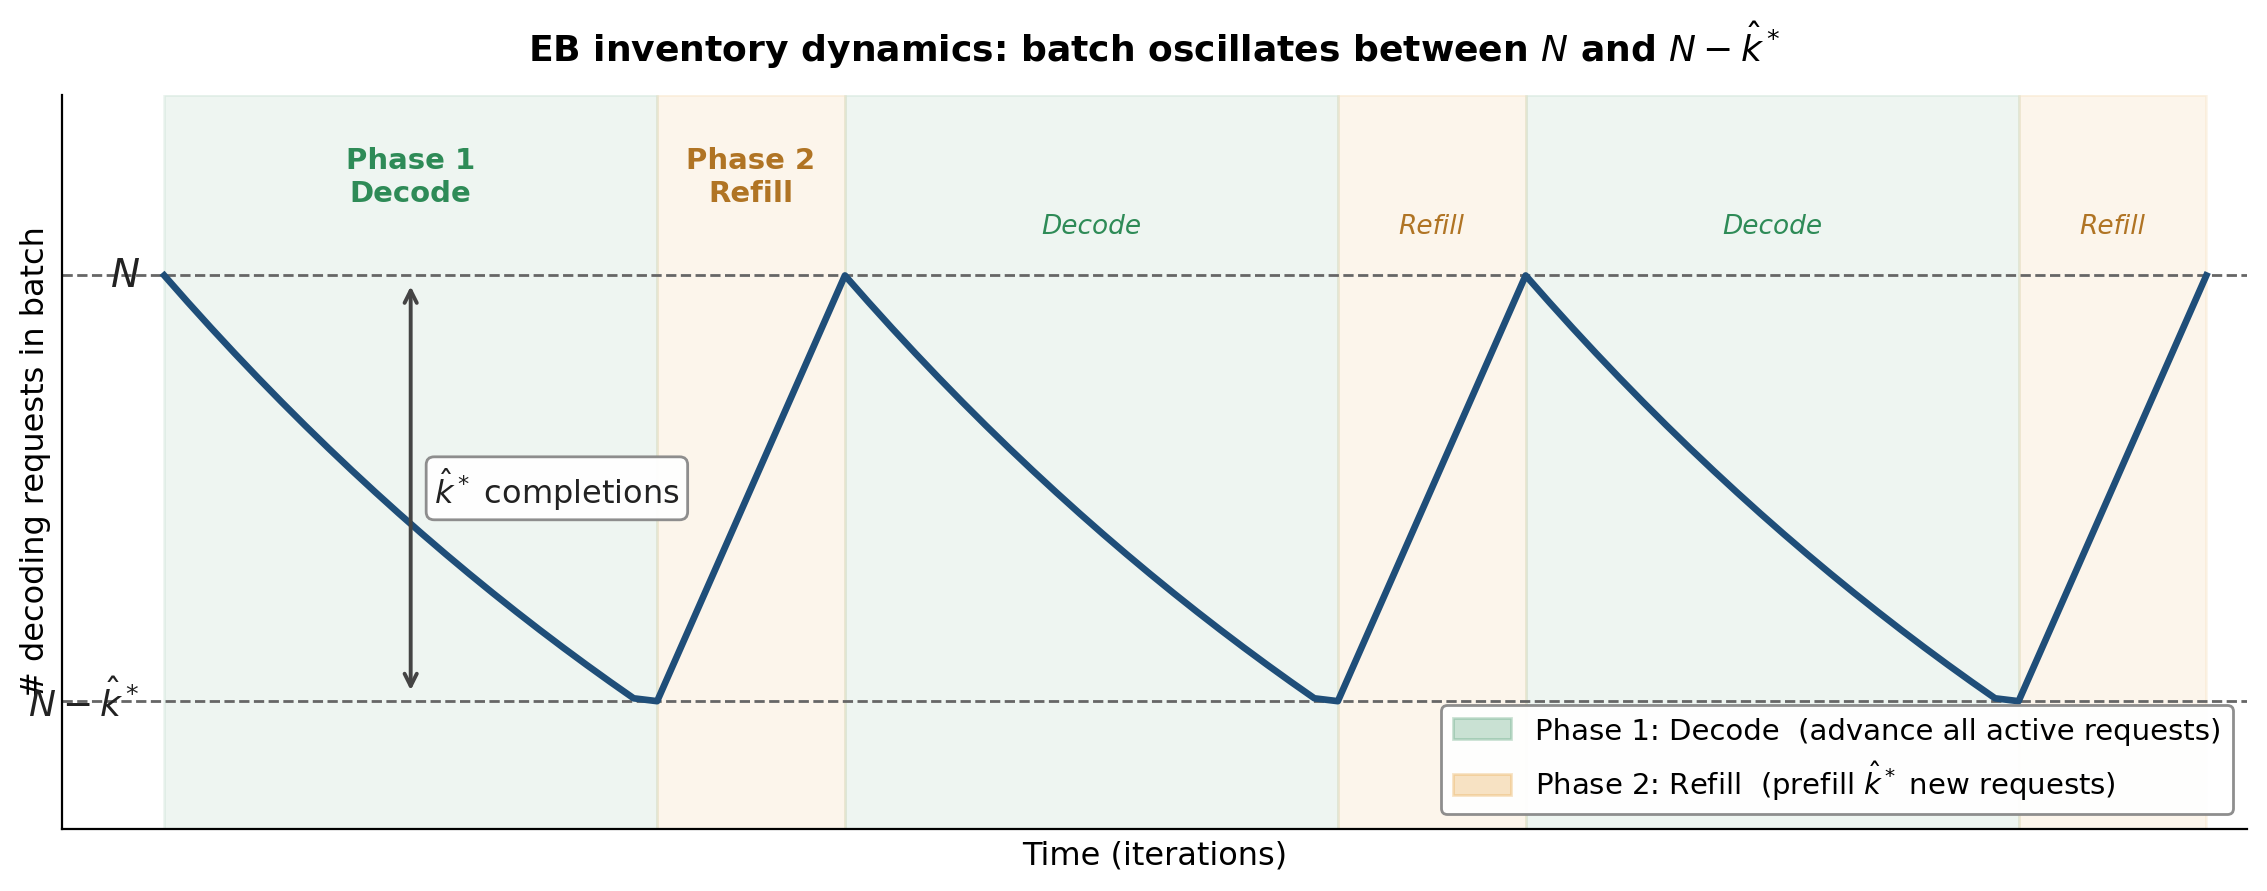
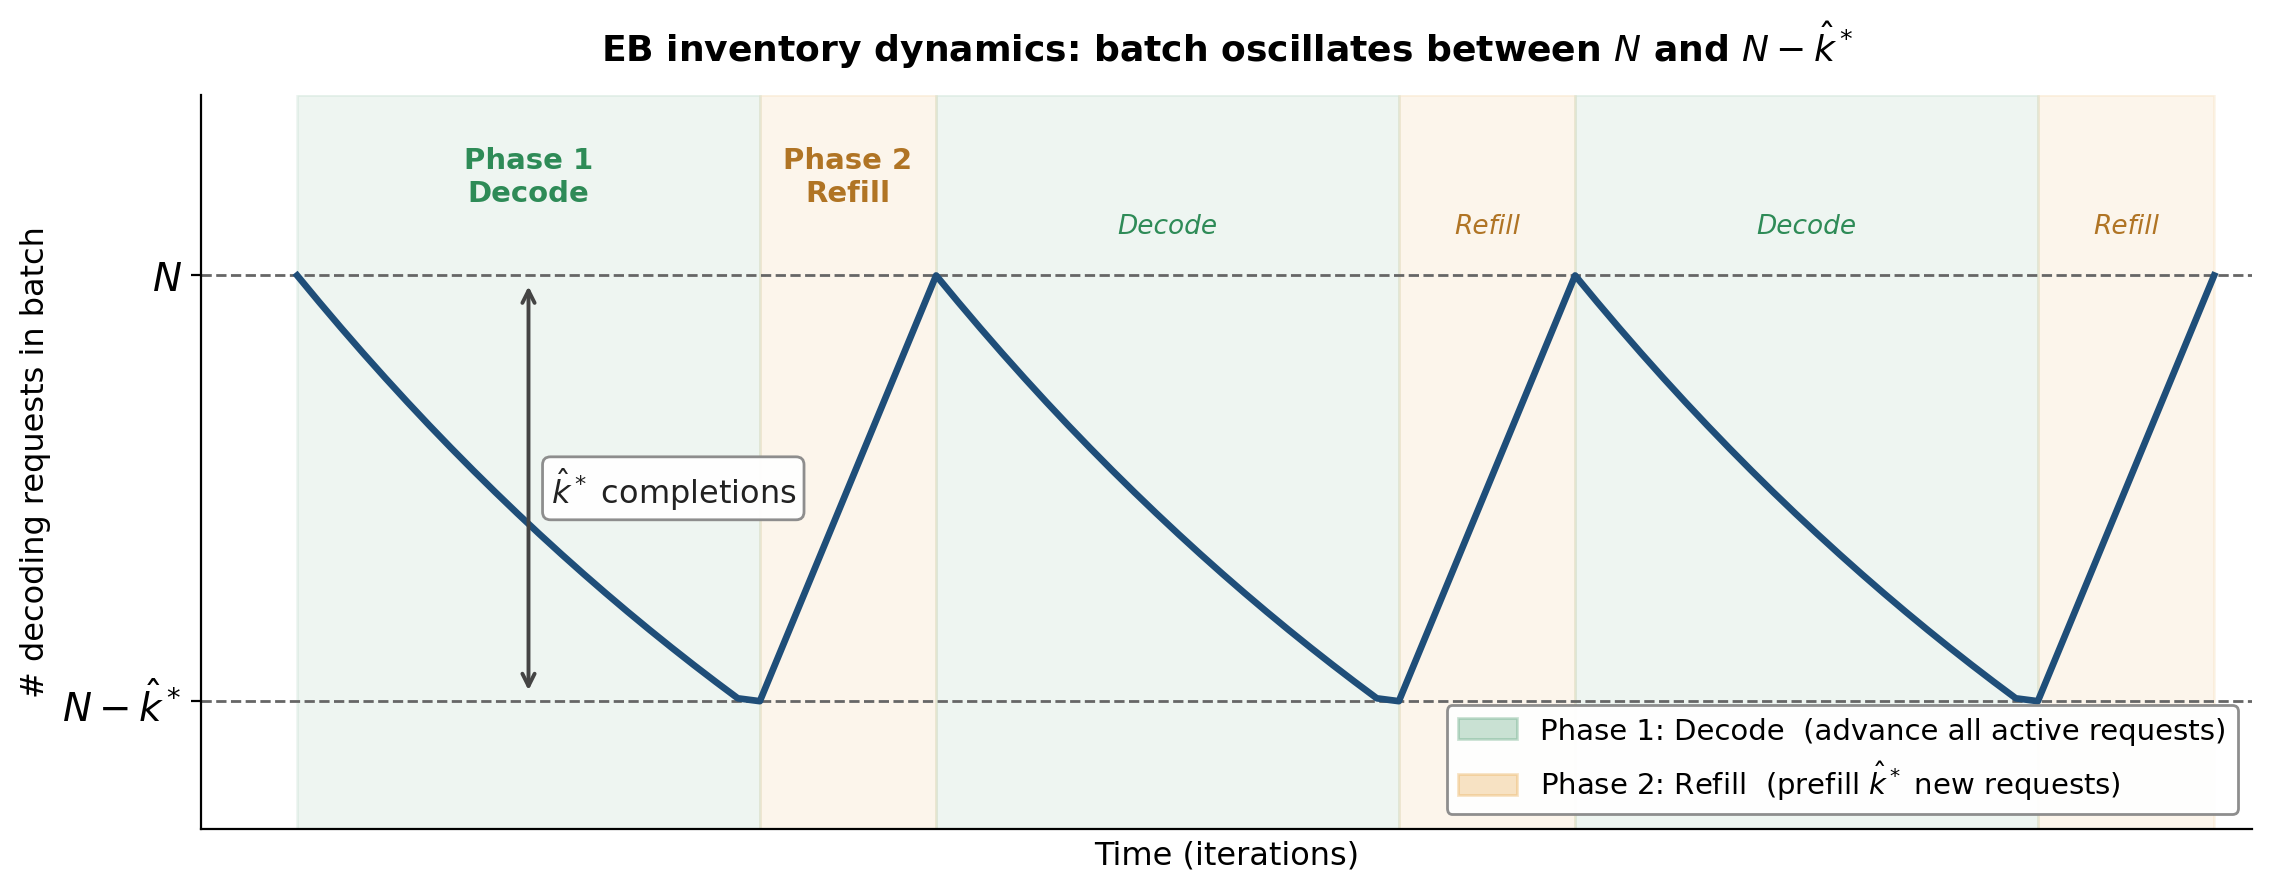
Phase machine figure: move N / N-k̂* labels to y-axis ticks
Previously rendered as inline text via ax.text() at x near 0, which
overlapped with the horizontal dashed reference lines. Now they're
proper y-tick labels rendered outside the plot area, fully clear of
the dashed lines.

diff --git a/assets/make_phase_machine_figure.py b/assets/make_phase_machine_figure.py
@@ -69,12 +69,7 @@ ax.axhline(N - k_hat, color="#666", linewidth=1.0, linestyle="--", zorder=1)
 # Trajectory
 ax.plot(ts, ys, color="#1f4e79", linewidth=2.4, zorder=3)
 
-# Y-axis annotations: N and N-k̂*
 xmax = ts[-1]
-ax.text(-xmax * 0.012, N, r"$N$", fontsize=14, ha="right", va="center",
-        color="#222", fontweight="bold")
-ax.text(-xmax * 0.012, N - k_hat, r"$N - \hat{k}^*$", fontsize=13, ha="right",
-        va="center", color="#222", fontweight="bold")
 
 # Side arrow + label showing the drop is k̂*
 # Position arrow in the first decode region
@@ -106,7 +101,10 @@ for i, (t0, t1, kind) in enumerate(phases[2:], start=2):
 ax.set_xlim(-xmax * 0.05, xmax * 1.02)
 ax.set_ylim(N - k_hat - 12, N + 17)
 ax.set_xticks([])         # time axis is illustrative; drop tick numbers
-ax.set_yticks([])         # bracketed by N and N-k̂* labels
+# Y-ticks at the two reference levels (renders OUTSIDE plot area)
+ax.set_yticks([N - k_hat, N])
+ax.set_yticklabels([r"$N - \hat{k}^*$", r"$N$"], fontsize=14,
+                    fontweight="bold")
 ax.set_xlabel("Time (iterations)", fontsize=11.5)
 ax.set_ylabel("# decoding requests in batch", fontsize=11.5)
 
